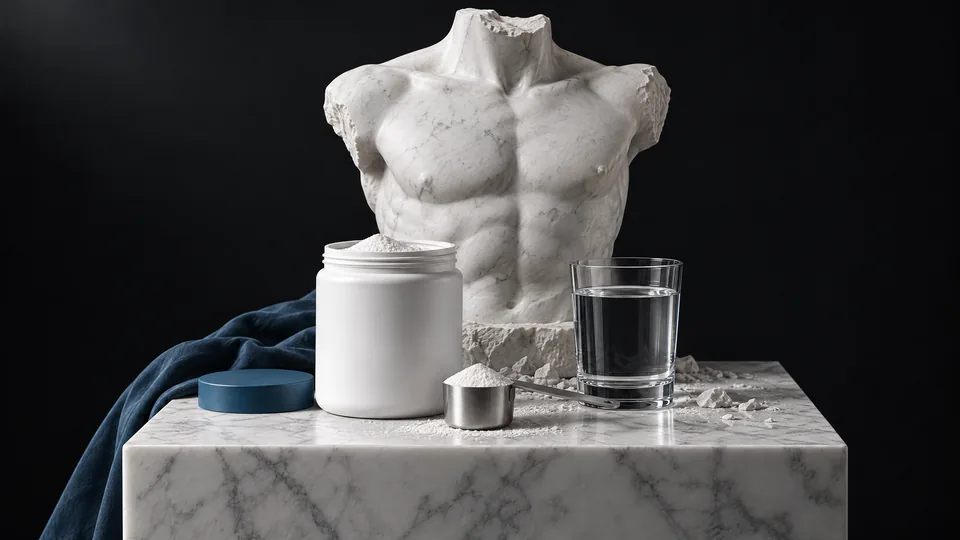
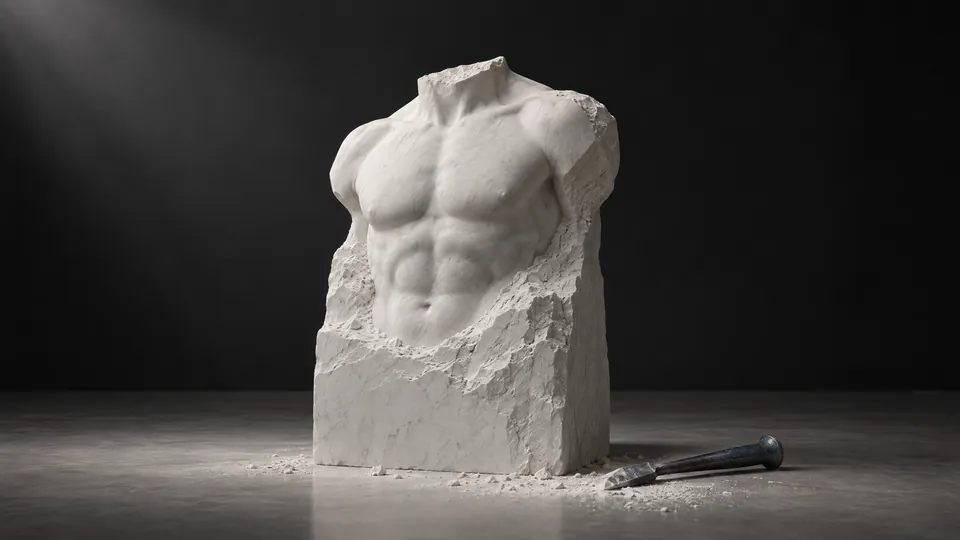
Gasto: días de la semana pinchables y estimación sin pulsera con el coste del entreno; 10 imágenes nuevas y vista previa al compartir

diff --git a/index.html b/index.html
@@ -23,6 +23,14 @@
   [hidden]{display:none !important}
 </style>
 <title>Cuaderno de Fuerza</title>
+<meta property="og:type" content="website">
+<meta property="og:title" content="Cuaderno de Fuerza">
+<meta property="og:description" content="Tu plan de fuerza por ciclos: qué toca cada día, con qué peso y cuánto descansar.">
+<meta property="og:url" content="https://marcospoolede-coder.github.io/Culturismo-natural/">
+<meta property="og:image" content="https://marcospoolede-coder.github.io/Culturismo-natural/img/compartir.jpg">
+<meta property="og:image:width" content="1200">
+<meta property="og:image:height" content="630">
+<meta name="twitter:card" content="summary_large_image">
 <link rel="preconnect" href="https://fonts.googleapis.com">
 <link rel="preconnect" href="https://fonts.gstatic.com" crossorigin>
 <link rel="stylesheet" href="https://fonts.googleapis.com/css2?family=Cinzel:wght@600;700&family=Figtree:wght@400;500;600;700;800&display=swap">
@@ -746,7 +754,10 @@
   .ncaja .nlist{margin-top:8px}
   .ngas{display:flex; align-items:flex-end; gap:16px}
   .nbars{display:flex; align-items:flex-end; gap:5px; flex:1; min-width:0}
-  .nbars div{flex:1; display:flex; flex-direction:column; align-items:center; gap:3px}
+  .nbars > *{flex:1; display:flex; flex-direction:column; align-items:center; gap:3px}
+  .nbars button{background:none; border:0; padding:4px 0 0; font:inherit; cursor:pointer; border-radius:8px}
+  .nbars button:focus-visible{outline:2px solid var(--accent); outline-offset:2px}
+  .nbars .e i{opacity:.5}
   .nbars i{display:block; width:100%; max-width:22px; border-radius:5px 5px 2px 2px; background:var(--line-2); min-height:3px}
   .nbars .s i{background:var(--accent)}
   .nbars .p i{opacity:.55}
@@ -829,7 +840,7 @@
    del 31 de mayo de 2025 y de las tablas de rutina por microciclo.     */
 
 /* súbela en cada despliegue: la app instalada la compara para avisar de que hay otra */
-var VERSION = "14 de noviembre de 2026, 12:50";
+var VERSION = "14 de noviembre de 2026, 13:30";
 var BARRA = 20;
 var PESO_CORP_DEF = 75;   /* peso corporal por defecto, se cambia en Ajustes */
 function pesoCorp(){ return state.peso > 0 ? state.peso : PESO_CORP_DEF; }
@@ -2628,7 +2639,7 @@ var GLOSARIO = {
   balance:   {t:"Balance del día",
               d:"Lo que comes menos lo que gastas. Si sale con más, es superávit: comes más de lo que gastas, que es lo que hace falta para construir músculo. Si sale con menos, es déficit: comes menos de lo que gastas, que sirve para perder grasa pero frena el músculo. El color dice lo cerca que estás de tu objetivo: verde si estás dentro, naranja si te quedas algo lejos y rojo si te vas mucho, por arriba o por abajo."},
   gasto:     {t:"Gasto de calorías",
-              d:"Todo lo que quema tu cuerpo en un día: lo que gasta solo por estar vivo, más lo que te mueves y lo que entrenas. Con WHOOP o Apple Salud sale del aparato; sin ellos, se estima con tu peso, tu altura y tu edad. Los relojes y las pulseras fallan un 10 a 40 %, por eso con tres semanas de pesos manda la báscula."},
+              d:"Todo lo que quema tu cuerpo en un día: lo que gasta solo por estar vivo, más lo que te mueves y lo que entrenas. Con WHOOP o Apple Salud sale del aparato; sin ellos, se estima con tu sexo, edad, altura y peso, y se le suma lo que cuesta cada entreno que cierras. Los relojes y las pulseras fallan un 10 a 40 %, por eso con tres semanas de pesos manda la báscula."},
   tecnica:   {t:"Técnica A, B o C",
               d:"Cómo ha salido la serie. A, limpia de principio a fin. B, se te ha roto alguna repetición. C, has tenido que hacer trampas para subirla."},
   descarga:  {t:"Semana de descarga",
@@ -2979,7 +2990,7 @@ function dibujoCom(cual){
    Con tres semanas de pesos manda la báscula, porque el gasto de los relojes
    falla un 10 a 40 %. */
 var nut = {cargado:false, cargando:false, falta:false, plan:"gratis", comidas:[], gasto:[], pesos:[],
-           integ:{}, aviso:"", sondeo:null, ultSync:0, vista:"", dia:null, mes:null, mom:null};
+           integ:{}, aviso:"", sondeo:null, ultSync:0, vista:"", dia:null, mes:null, mom:null, gdia:null};
 
 function fISO(d){ return new Date(d.getTime() - d.getTimezoneOffset() * 60000).toISOString().slice(0, 10); }
 function nHoy(){ return fISO(new Date()); }
@@ -3055,9 +3066,29 @@ function nGasto(f){
   if(m && m.total) return {kcal:m.total, fuente:"a mano", parcial:false};
   var c = nCfg();
   if(c.mant) return {kcal:c.mant, fuente:"tu mantenimiento", parcial:false, fijo:true};
-  var dias = (state.dias || []).length || 3;
-  return {kcal:Math.round(nBasal() * (dias >= 4 ? 1.6 : dias >= 2 ? 1.5 : 1.35) / 10) * 10,
-          fuente:"estimado", parcial:false, fijo:true};
+  /* sin pulsera: un día normal sin contar el gimnasio, más lo que cuesta
+     cada entreno cerrado ese día */
+  var base = Math.round(nBasal() * N_VIDA / 10) * 10, ent = nEntrenoKcal(f);
+  return {kcal:base + ent, fuente:ent ? "estimado, con tu entreno" : "estimado",
+          parcial:false, fijo:true, est:true, base:base, ent:ent};
+}
+/* basal por 1,3: vida diaria ligera, trabajo sentado y algo de paseo */
+var N_VIDA = 1.3;
+/* Coste de los entrenos cerrados un día. Fuerza con descansos largos: unos
+   4 MET de media, 3 por encima de estar sentado, durante lo que dura la sesión */
+function nEntrenoKcal(f){
+  var t = 0;
+  (state.hechas || []).forEach(function(s){
+    if(s.iso !== f) return;
+    var i = -1, min = 60;
+    FASES.forEach(function(x, k){ if(i < 0 && x.n === s.f) i = k; });
+    if(i >= 0){
+      var lista = (RUT[FASES[i].rut] || {})[s.r];
+      if(lista) min = duracion({f:i, s:Math.max(0, (s.w || 1) - 1), e:0}, lista);
+    }
+    t += pesoCorp() * 3 * min / 60;
+  });
+  return Math.round(t / 10) * 10;
 }
 function nComidas(f){
   return nut.comidas.filter(function(c){ return c.fecha === f; });
@@ -3400,7 +3431,7 @@ function nDiaHTML(){
 
 /* el gasto, a la vista: el del día elegido, de dónde sale y la última semana */
 function nGastoHTML(){
-  var f = nSel(), hoy = f === nHoy(), g = nGasto(f), w = nut.integ.whoop;
+  var f = nut.gdia || nSel(), hoy = f === nHoy(), g = nGasto(f), w = nut.integ.whoop;
   var fila = nut.gasto.filter(function(x){ return x.fecha === f && x.pasos; })[0];
   var h = '<div class="card" style="margin-top:10px"><div class="com-h">' + dibujoCom("gasto").replace("comdib", "com-ic") +
     '<div><b>Gasto de calorías</b><small>' + (hoy ? "Hoy" : esc(nFechaLarga(f))) + ', lo que quema tu cuerpo</small></div></div>';
@@ -3408,20 +3439,29 @@ function nGastoHTML(){
   for(i = 6; i >= 0; i--){
     var fi = nDia(i), gi = nGasto(fi);
     dias.push({f:fi, g:gi});
-    if(!gi.fijo) max = Math.max(max, gi.kcal);
+    if(!gi.fijo || gi.est) max = Math.max(max, gi.kcal);
   }
   /* la misma media que usa el balance de hoy: los días completos de la última semana */
   for(i = 1; i <= 7; i++){ var gm = nGasto(nDia(i)); if(!gm.fijo && !gm.parcial){ suma += gm.kcal; n++; } }
   h += '<div class="ngas"><div class="gran"><b>' + nMil(g.kcal) + '</b><span>kcal</span></div><div class="nbars">';
   dias.forEach(function(x){
-    var real = !x.g.fijo;
-    h += '<div class="' + (x.f === f ? "s" : "") + (real && x.g.parcial ? " p" : "") + '" title="' + (real ? nMil(x.g.kcal) + " kcal" : "sin dato") +
-      '"><i style="height:' + (real && max ? Math.max(5, Math.round(x.g.kcal / max * 56)) : 3) + 'px"></i><small>' +
-      "DLMXJVS".charAt(new Date(x.f + "T12:00:00").getDay()) + '</small></div>';
+    var vale = !x.g.fijo || x.g.est;
+    h += '<button type="button" data-n="gdia" data-f="' + x.f + '" class="' + (x.f === f ? "s" : "") +
+      (!x.g.fijo && x.g.parcial ? " p" : "") + (x.g.est ? " e" : "") + '" aria-label="' +
+      esc(nFechaLarga(x.f) + ": " + nMil(x.g.kcal) + " kcal" + (x.g.fijo ? ", estimado" : "")) + '"' +
+      (x.f === f ? ' aria-pressed="true"' : '') +
+      '><i style="height:' + (vale && max ? Math.max(5, Math.round(x.g.kcal / max * 56)) : 3) + 'px"></i><small>' +
+      "DLMXJVS".charAt(new Date(x.f + "T12:00:00").getDay()) + '</small></button>';
   });
-  h += '</div></div>';
+  h += '</div></div><p class="expl" style="font-size:12.5px; margin-top:4px">Toca un día de la semana para ver lo que gastaste.</p>';
+  if(g.est){
+    h += '<p class="expl">Un día normal tuyo: <b>' + nMil(g.base) + ' kcal</b>' +
+      (g.ent ? '. El entreno: <b>+' + nMil(g.ent) + ' kcal</b>' : (hoy ? '. El entreno se suma al cerrarlo' : '. Ese día no cerraste entreno')) + '.</p>';
+  }
   h += '<p class="expl">' + (g.fijo
-    ? "Es una estimación con tu peso, tu altura y tu edad. Conecta WHOOP o Apple Salud más abajo, en Tus datos y conexiones, para tener el dato real."
+    ? (g.est
+        ? "Sin pulsera lo estimo con tu sexo, edad, altura y peso (ponlos bien en Tus datos), más lo que cuesta cada entreno que cierras. Si conectas WHOOP o Apple Salud, manda su dato."
+        : "Usas el mantenimiento que pusiste en Tus datos. Conecta WHOOP o Apple Salud para tener el dato real.")
     : "Fuente: " + esc(g.fuente) + (g.parcial ? ". El día sigue y la cifra irá subiendo" : "") + "." + (fila ? " " + nMil(fila.pasos) + " pasos." : "")) +
     info("gasto") + '</p>';
   if(n >= 2) h += '<p class="expl">Media de tus últimos ' + n + ' días completos: <b>' + nMil(suma / n) + ' kcal</b>.</p>';
@@ -3695,7 +3735,8 @@ document.addEventListener("click", function(ev){
     else if(q === "mano") nAbreMano();
     else if(q === "add") nAbreAnadir(el.dataset.mom);
     else if(q === "vista"){ nut.vista = el.dataset.v; render(); }
-    else if(q === "dia"){ nut.dia = el.dataset.f === nHoy() ? null : el.dataset.f; nPinta(); }
+    else if(q === "dia"){ nut.dia = el.dataset.f === nHoy() ? null : el.dataset.f; nut.gdia = null; nPinta(); }
+    else if(q === "gdia"){ nut.gdia = el.dataset.f; nPinta(); }
     else if(q === "mes"){
       var rm = nut.mes ? new Date(+nut.mes.slice(0, 4), +nut.mes.slice(5, 7) - 1, 1) : new Date(nSel() + "T12:00:00");
       rm = new Date(rm.getFullYear(), rm.getMonth() + (+el.dataset.d), 1);
